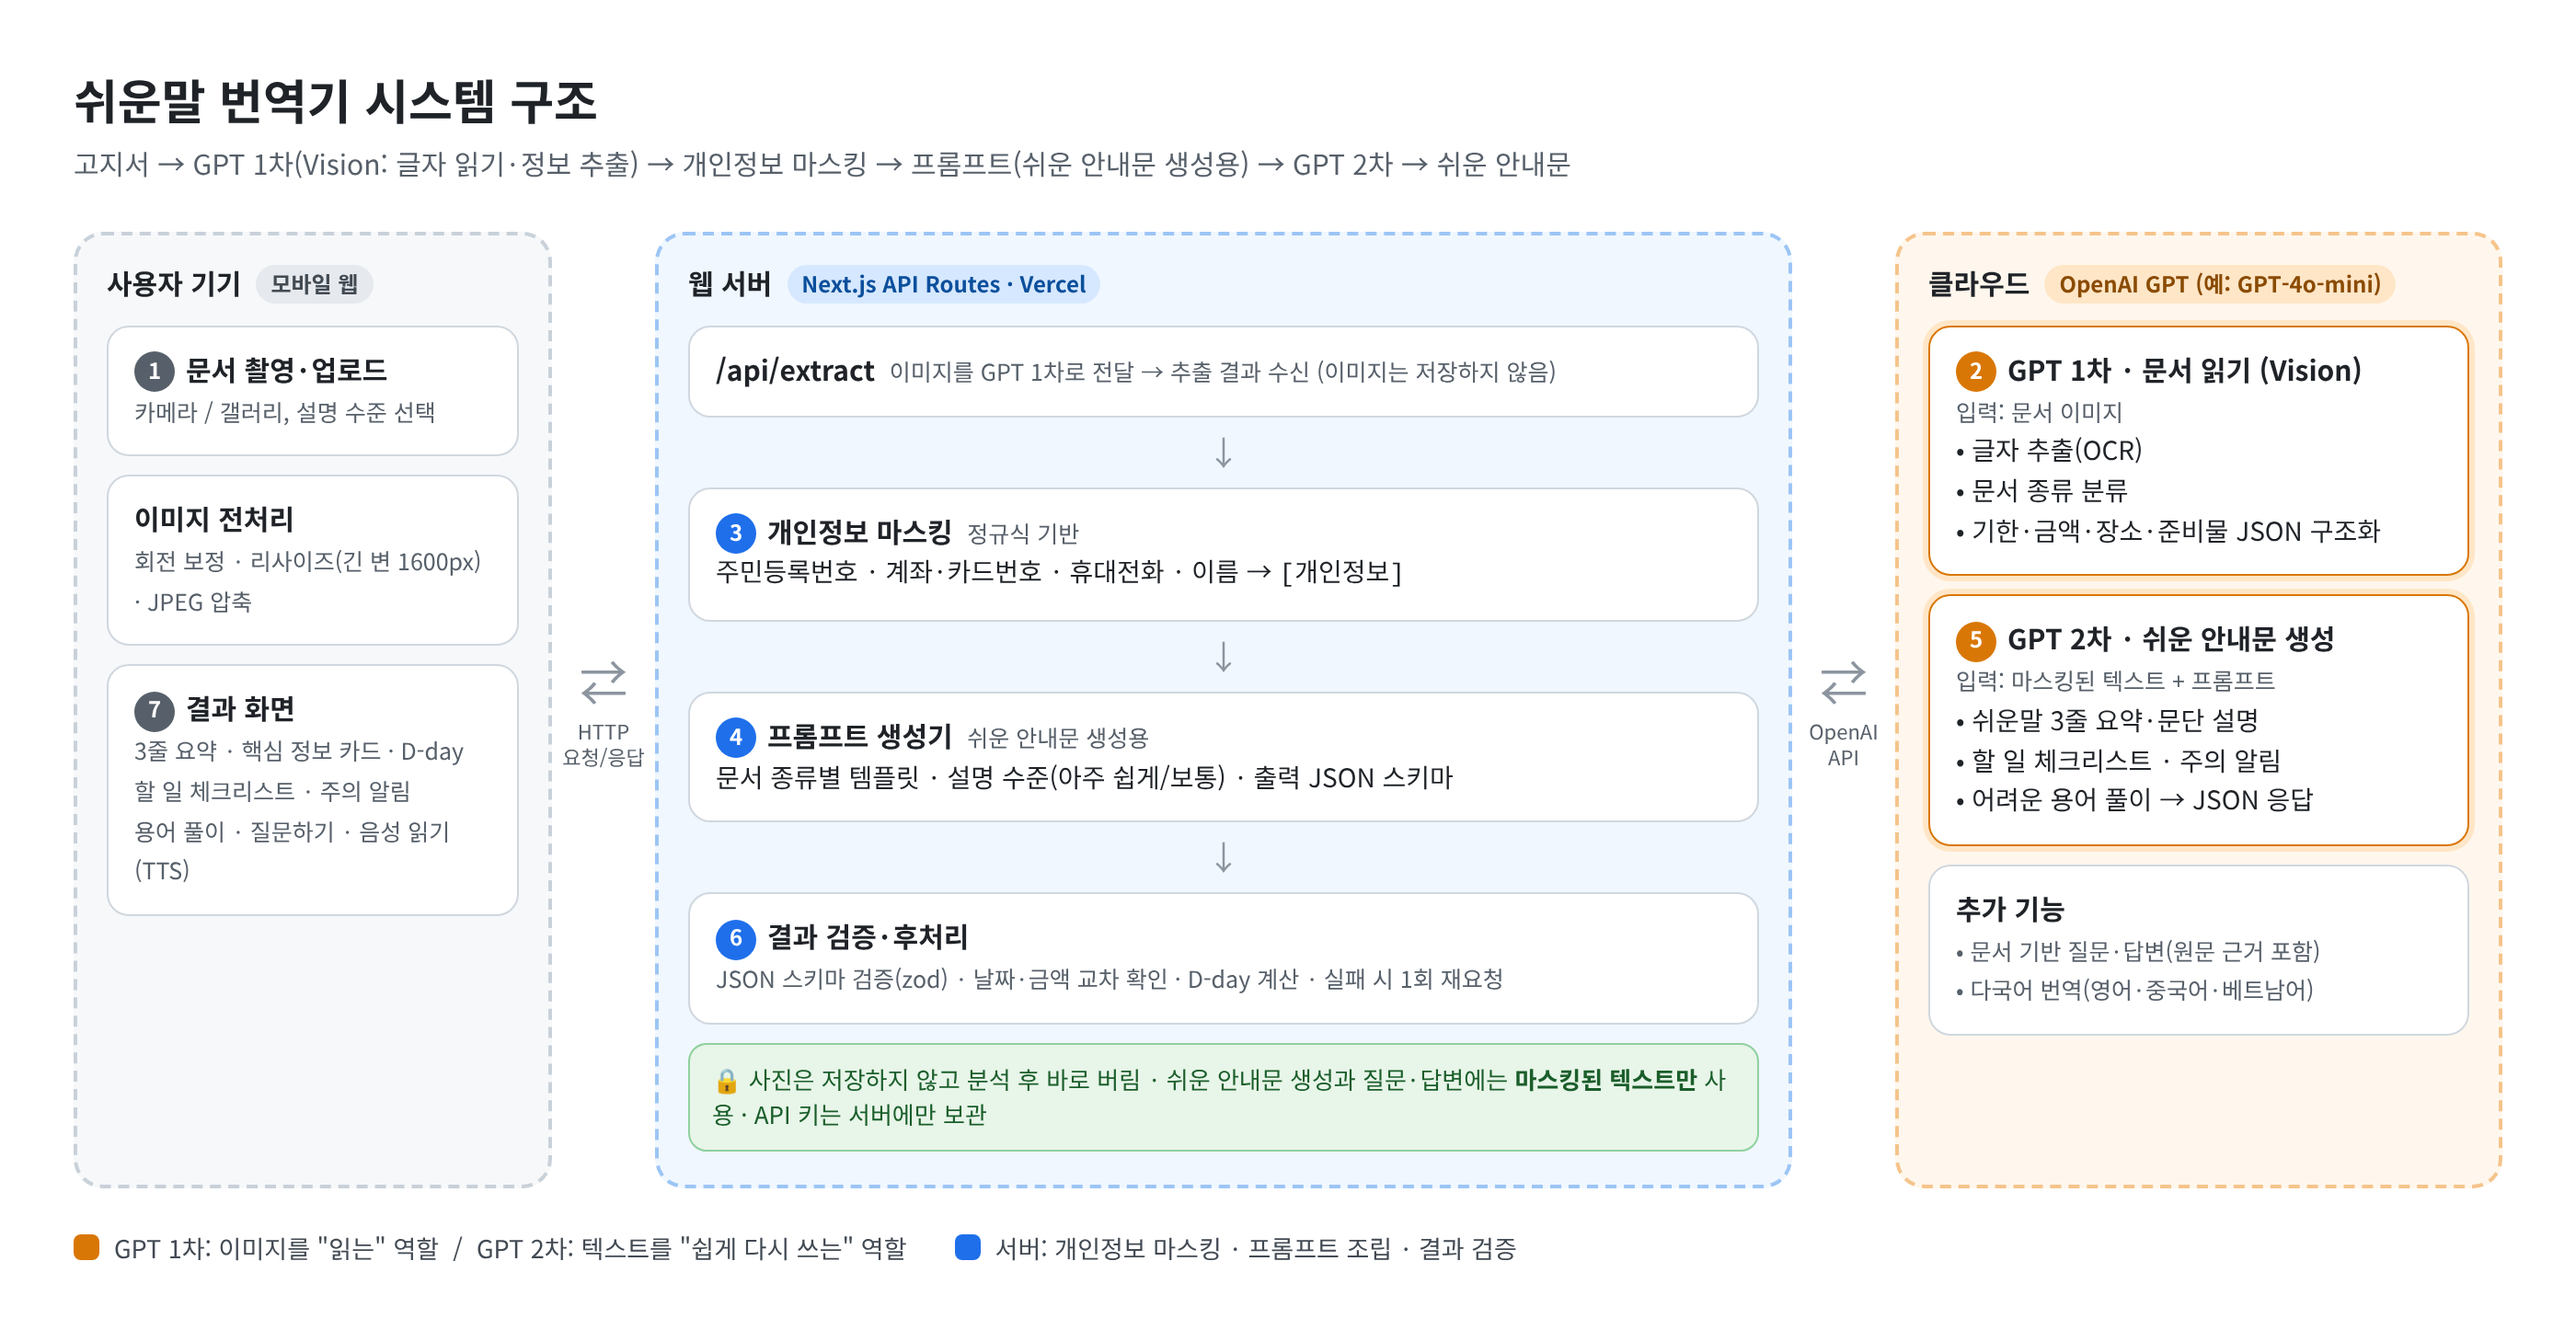
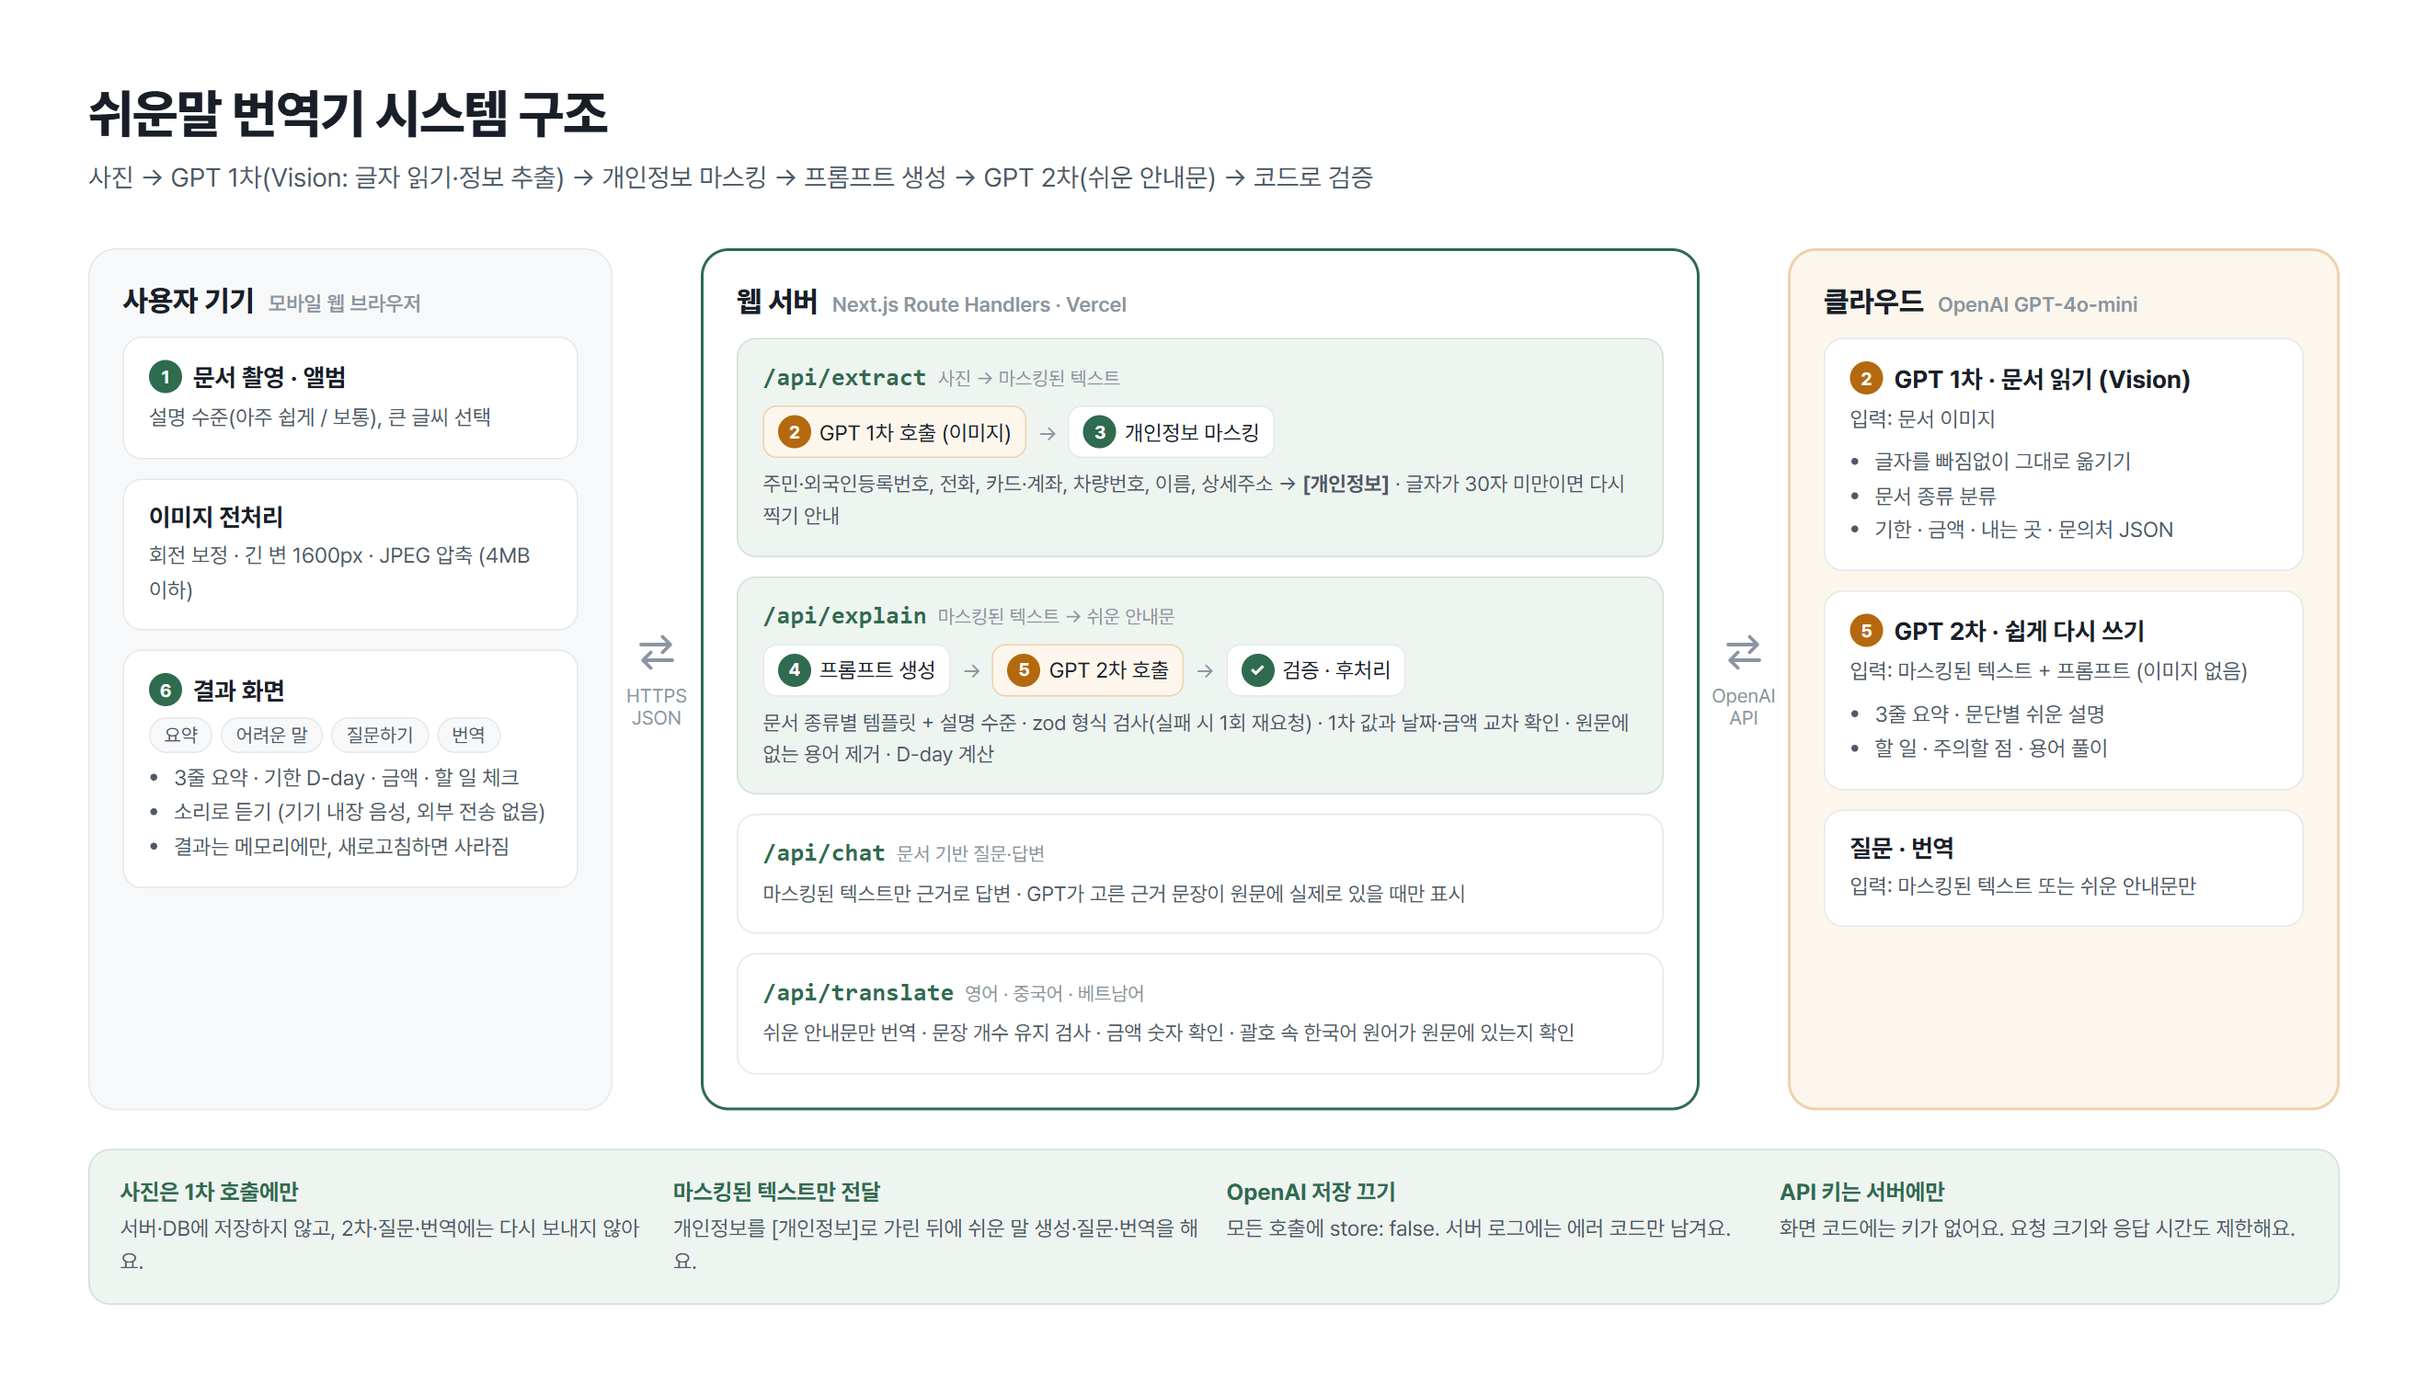
docs: README 최신화, 시스템 구조도·실제 화면 이미지 교체

Changed region(s): [[0.0311, 0.0622, 0.9629, 0.7469], [0.0311, 0.6846, 0.9629, 0.9647], [0.5591, 0.249, 0.5902, 0.2801]]

diff --git a/README.md b/README.md
@@ -2,7 +2,7 @@
 
 > **어려운 안내문을 찍으면 "내가 할 일"로 바꿔주는 생성형 AI 서비스**
 
-동양미래대학교 컴퓨터소프트웨어공학과 **인공지능프로젝트** 개별 프로젝트 (2026-2학기) · 🚧 개발 중
+동양미래대학교 컴퓨터소프트웨어공학과 **인공지능프로젝트** 개별 프로젝트 (2026-2학기) · Vercel 배포 중
 
 ---
 
@@ -17,8 +17,8 @@
 **예상 사용자:** 어르신, 외국인 주민·유학생, 사회초년생·대학생, 부모님 문서를 대신 봐 드리는 보호자
 
 > **예시 —** 과태료 고지서를 찍으면
-> "주정차 위반으로 **과태료 4만 원**이 나왔어요. **10월 20일까지** 내면 **3만 2천 원**만 내면 돼요."
-> ✅ 10월 20일까지 32,000원 내기 · ⚠ 기한이 지나면 가산금이 붙을 수 있어요
+> "주정차 위반으로 **과태료 4만 원**이 나왔어요. **11월 30일까지** 내면 **3만 2천 원**만 내면 돼요."
+> ✅ 11월 30일까지 32,000원 내기 · ⚠ 기한이 지나면 할인이 없어지고 가산금이 붙을 수 있어요
 
 ---
 
@@ -26,11 +26,12 @@
 
 | 기능 | 설명 |
 |---|---|
-| ⭐ **문서 인식·쉬운말 요약** | 문서 종류를 판별하고, 설명 수준(아주 쉽게/보통)에 맞춰 요약 |
-| ⭐ **핵심 정보·할 일 체크리스트** | 기한(D-day)·금액·제출처 카드, 할 일 목록, 불리한 조항 주의 알림 |
-| ⭐ **어려운 용어 풀이** | 원문의 어려운 용어를 하이라이트하고 문맥에 맞게 설명 |
-| 문서 기반 질문·답변 | 궁금한 점에 문서 내용을 근거로 답변 (근거 원문 표시) |
-| 음성 읽기·다국어 번역 | TTS 음성 읽기, 영어·중국어·베트남어 번역 |
+| ⭐ **문서 인식·쉬운말 요약** | 문서 종류(고지서·계약서·안내문·병원)를 판별하고, 설명 수준(아주 쉽게/보통)에 맞춰 3줄 요약 |
+| ⭐ **핵심 정보·할 일 체크리스트** | 기한(D-day)·금액·내는 곳·문의처, 할 일 체크리스트, 주의할 점(불리한 조항·미납 불이익) |
+| ⭐ **어려운 말 풀이** | 문서 속 어려운 용어의 뜻·예시와 문서에서 쓰인 문장, 원문 전체 보기(용어 하이라이트) |
+| 문서 기반 질문·답변 | 문서 내용만 근거로 답하고 근거 원문 문장을 함께 표시, 없으면 문의처 안내 |
+| 다국어 번역 | 영어·중국어·베트남어, 행정 용어는 괄호에 한국어 원어 병기 |
+| 접근성 | 소리로 듣기(기기 내장 음성), 큰 글씨 모드, 쉬운 말 UI 문구 |
 
 ---
 
@@ -41,6 +42,7 @@
 ```
 고지서 사진 → GPT 1차(Vision: 글자 읽기·정보 추출) → 개인정보 마스킹 → 프롬프트 생성 → GPT 2차 → 검증 → 쉬운 안내문
              └──────────── /api/extract ────────────┘   └────────────── /api/explain ──────────────┘
+질문하기: /api/chat (마스킹된 텍스트 + 질문)   번역: /api/translate (쉬운 안내문 → 영·중·베)
 ```
 
 GPT 호출을 **"읽기"와 "쉽게 쓰기" 2단계**로 나눴습니다.
@@ -48,17 +50,17 @@ GPT 호출을 **"읽기"와 "쉽게 쓰기" 2단계**로 나눴습니다.
 - **GPT 1차 (Vision):** 문서 이미지에서 글자를 그대로 옮기고, 문서 종류·기한·금액 등을 JSON으로 정리합니다.
 - **서버:** 주민등록번호·전화번호·계좌번호·이름 등을 정규식으로 `[개인정보]`로 가린 뒤, 문서 종류와 설명 수준에 맞는 프롬프트를 만듭니다.
 - **GPT 2차:** 마스킹된 텍스트만 받아 3줄 요약, 할 일, 주의 알림, 용어 풀이를 만듭니다.
-- **검증:** zod로 형식을 확인하고, 1차에서 뽑은 날짜·금액과 2차 결과를 코드로 비교해 다르면 원문 값을 우선합니다.
+- **검증:** zod로 형식을 확인(실패 시 1회 재요청)하고, 1차에서 뽑은 날짜·금액과 2차 결과를 코드로 비교해 다르면 원문 값을 우선하고 경고를 띄웁니다. 원문에 없는 용어, 원문에 없는 질문 근거 문장은 걸러냅니다.
 
-**사진은 서버에 저장하지 않고**, 이미지는 1차 호출에만 쓰입니다. 쉬운 안내문 생성·질문·번역에는 마스킹된 텍스트만 전송됩니다.
+**사진은 서버에 저장하지 않고**, 이미지는 1차 호출에만 쓰입니다. 쉬운 안내문 생성·질문·번역에는 마스킹된 텍스트만 전송됩니다. 모든 OpenAI 호출은 `store: false`로 보내고, 서버 로그에는 문서 내용 없이 에러 코드만 남깁니다.
 
 ---
 
 ## 🎨 화면 구성
 
-![UI/UX 예시](docs/ui-wireframe.png)
+![화면 구성](docs/ui-screens.png)
 
-홈(문서 촬영) → 분석 중(단계별 진행 표시) → 결과(요약·정보 카드·할 일) → 원문·용어 / 질문하기
+홈(문서 촬영) → 읽는 중(단계별 진행 표시) → 결과 탭: 요약 / 어려운 말 / 질문하기 / 번역
 
 ---
 
@@ -66,9 +68,9 @@ GPT 호출을 **"읽기"와 "쉽게 쓰기" 2단계**로 나눴습니다.
 
 | 구분 | 기술 |
 |---|---|
-| Frontend / Backend | Next.js (App Router), TypeScript, Tailwind CSS, Route Handlers |
+| Frontend / Backend | Next.js 16 (App Router), React 19, TypeScript, Tailwind CSS v4, Route Handlers |
 | Generative AI | OpenAI API (GPT-4o-mini, Vision + 구조화 출력) |
-| 기타 | zod (출력 검증), Web Speech API (TTS), vitest (테스트) |
+| 기타 | zod (출력 검증), Web Speech API (TTS), vitest (테스트), Pretendard, lucide-react |
 | 배포 | Vercel |
 
 ---
@@ -94,8 +96,11 @@ MOCK_LLM=false   # true면 API 키 없이 예시 결과(과태료 고지서)로 
 ```bash
 npm run dev                 # http://localhost:3000
 npm run dev -- -H 0.0.0.0   # 같은 와이파이의 휴대폰에서 접속
-npm test                    # 단위 테스트
+npm run lint && npx tsc --noEmit
+npm test                    # 단위 테스트 (마스킹·검증·D-day·프롬프트 등)
 ```
+
+**배포 (Vercel):** GitHub 저장소를 Import하고 환경 변수 `OPENAI_API_KEY`, `OPENAI_MODEL`, `MOCK_LLM=false`를 설정합니다. 이후 `main`에 머지하면 자동으로 다시 배포됩니다.
 
 ---
 
@@ -104,10 +109,10 @@ npm test                    # 단위 테스트
 | 기간 | 목표 |
 |---|---|
 | 9/30 ~ 10/13 | 기획, 화면 설계, AI 구조 확정 ✅ |
-| 10/14 ~ 11/17 | 구현 (GPT 1차·2차 연동, 기능 1·2), 발표 준비 |
-| **11/18** | 수업 프로젝트 발표 |
-| 11/19 ~ 11/25 | 용어 풀이·질문하기 (기능 3·4) |
-| 11/26 ~ **12/2** | 음성 읽기·번역, 고도화, 교내 경진대회 |
+| 10/14 ~ 11/17 | 구현 (GPT 1차·2차 연동, 기능 1·2), 발표 준비 ✅ |
+| **11/18** | 수업 프로젝트 발표 ✅ |
+| 11/19 ~ 11/25 | 어려운 말·질문하기·음성 읽기·번역 (기능 3~5), Vercel 배포 ✅ |
+| 11/26 ~ **12/2** | 실제 문서 정확도 점검, 고도화, 교내 경진대회 |
 
 ---
 

diff --git a/CLAUDE.md b/CLAUDE.md
@@ -100,7 +100,7 @@ __tests__/                 vitest
 - notice/medical/other: 일시·장소·준비물·신청·제출 방법
 - terms.word는 maskedText에 실제로 등장하는 문자열 그대로
 
-## UI/UX 규칙 (와이어프레임: docs/ui-wireframe.png)
+## UI/UX 규칙 (실제 화면: docs/ui-screens.png)
 - 모바일 우선(기준 375px), 데스크톱은 가운데 정렬 최대 430px
 - 기본 글자 16px+, 큰 글씨 모드는 html font-size 약 1.2배
 - 터치 영역 44px+, 주요 버튼은 아래쪽에 크게
@@ -110,7 +110,7 @@ __tests__/                 vitest
   - 금지: 그라데이션, 이모지 아이콘, 모든 요소를 카드로 감싸기, glassmorphism, 장식용 그림자. 구분은 여백과 구분선
   - 아이콘이 필요하면 SVG(lucide-react 허용)로 내비게이션 위주로만
   - 버튼·문구는 마케팅 톤 말고 짧고 담백하게
-- UI 문구도 쉬운 말("업로드"→"사진 올리기", "분석"→"읽는 중"). 와이어프레임은 화면 흐름 참고용, 시각 스타일은 위 디자인 방향 우선
+- UI 문구도 쉬운 말("업로드"→"사진 올리기", "분석"→"읽는 중")
 - 분석 중 단계 표시는 실제 진행과 일치(extract 완료 → 1·2단계 체크, explain 진행 중 → 3단계, 완료 → 4단계 후 결과로)
 - 에러 안내: `LOW_QUALITY_IMAGE` "글자가 잘 안 보여요. 밝은 곳에서 문서를 평평하게 놓고 다시 찍어 주세요." / `OPENAI_KEY_MISSING` "API 키가 설정되지 않았어요."(개발자용) / 기타 "잠시 문제가 생겼어요. 다시 시도해 주세요." + "다시 찍기"
 - 접근성: aria-label, alt, 키보드 포커스 표시. 모든 화면에 로딩·빈·에러 상태 처리
